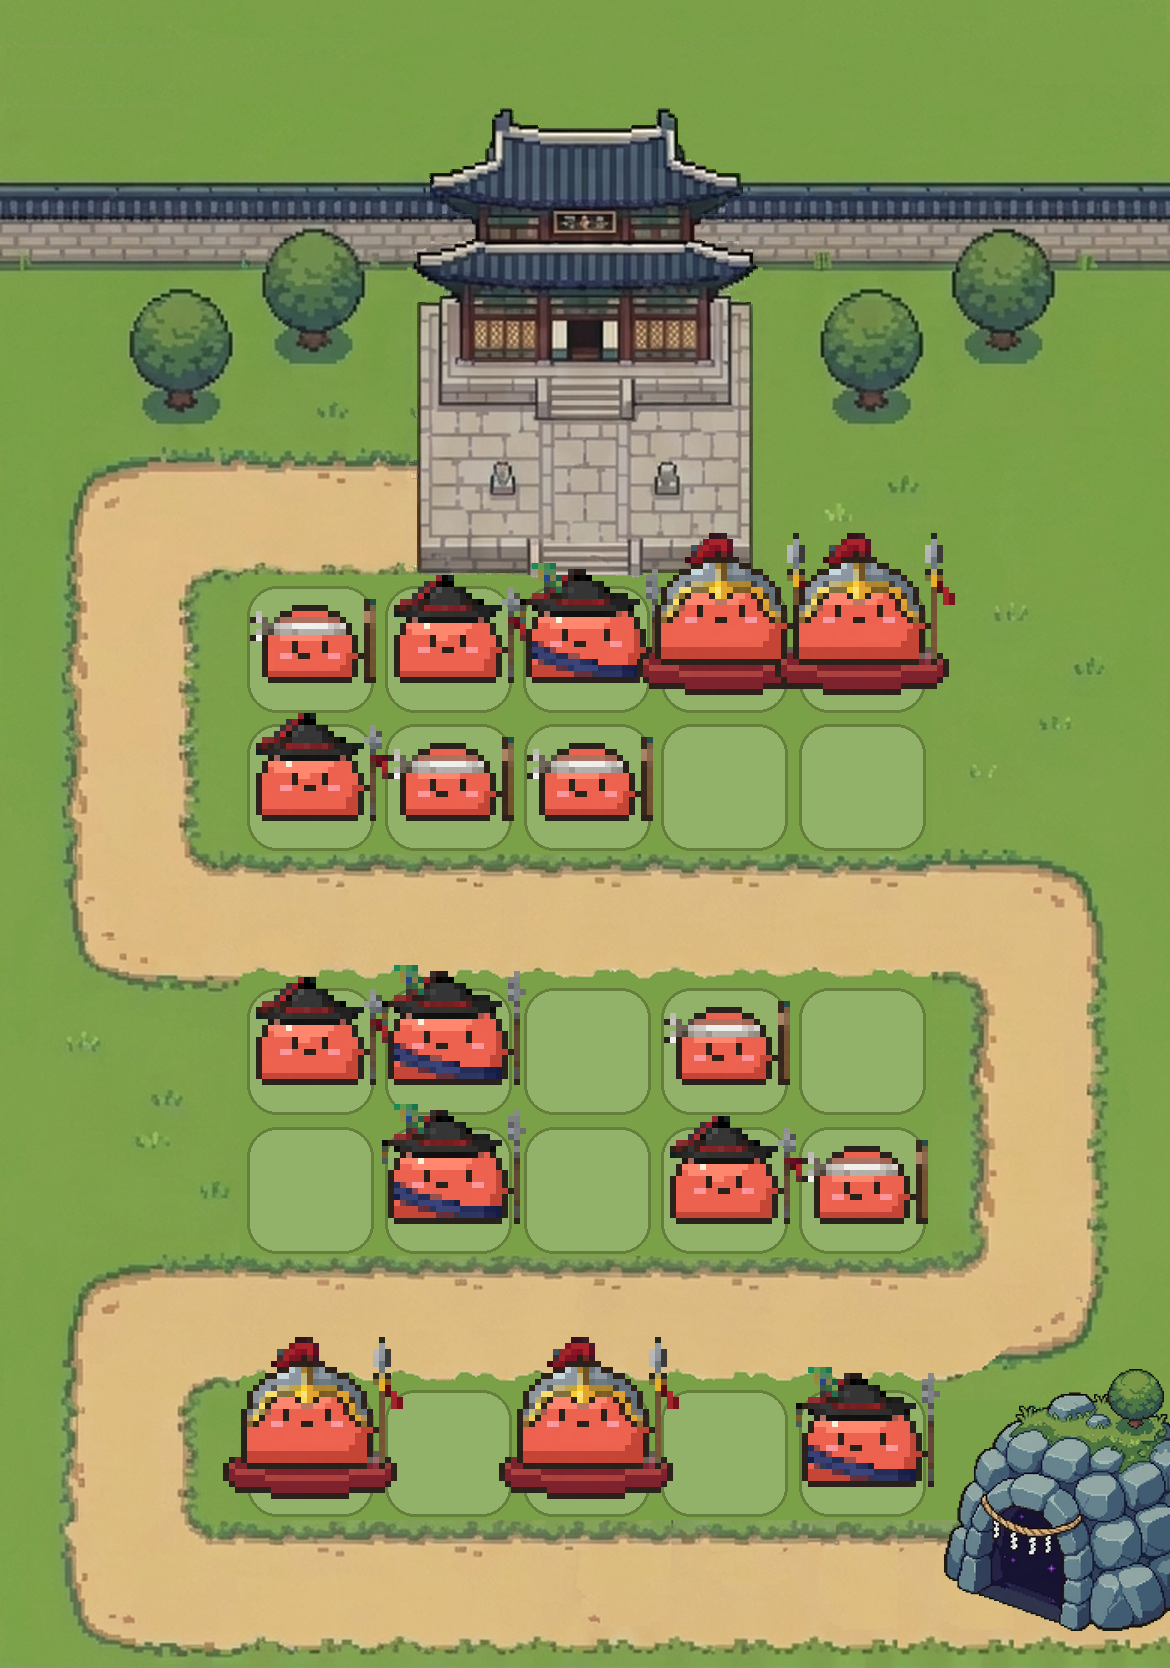
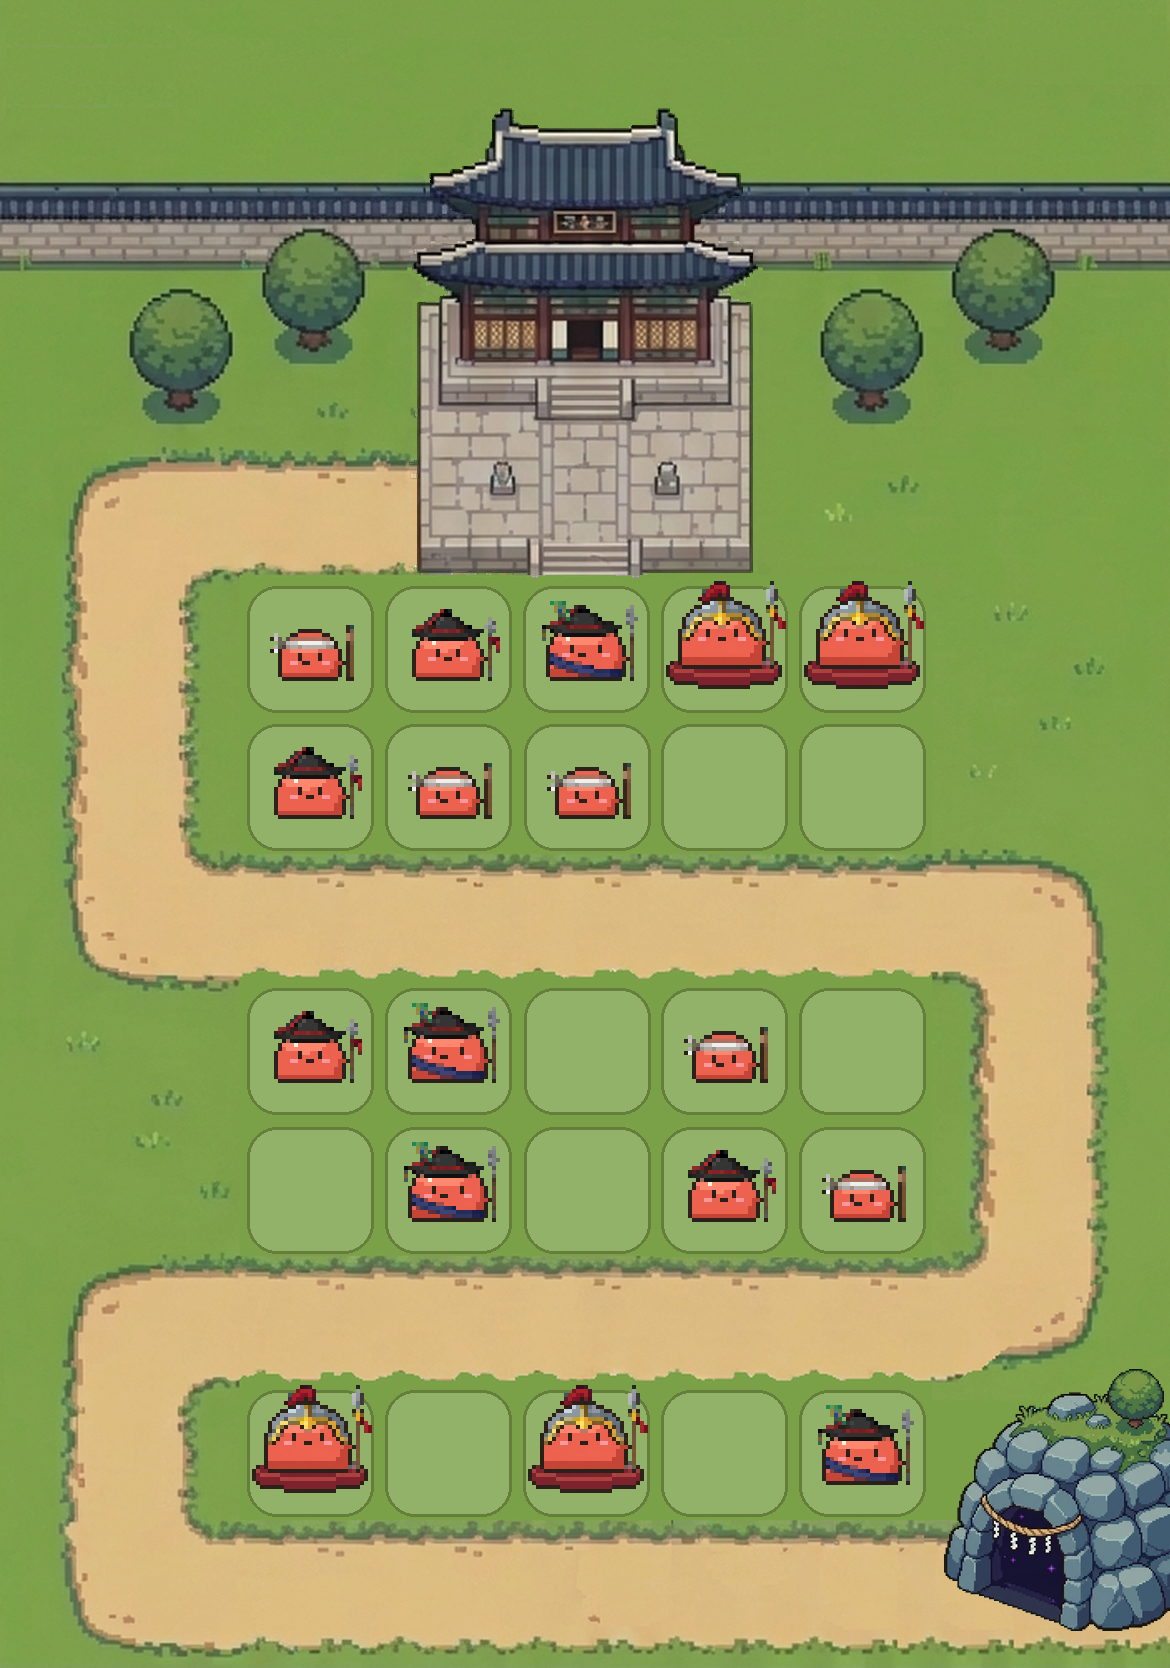
art: 도트 창병 미리보기 크기 줄임 (1도트 = @2x 4px)
Claude-Session: https://claude.ai/code/session_01516Ff1ezD39vnqGwiHhyKB

diff --git a/art/tools/slime/snap_pixel_slime.py b/art/tools/slime/snap_pixel_slime.py
@@ -3,7 +3,7 @@
 입력: art/source/gemini/slime-pixel/<병과>-ranks-pixel.png (하늘색 배경, 1도트 ≈ 9px)
 출력: art/source/gemini/slime-pixel/dots/<병과>-<등급>.png   1도트 = 1px 원본 (투명)
       art/preview/slime-pixel/<병과>-pixel-on-map.png, -pixel-ranks.png
-게임 크기: 1도트 = @2x 6px (보드 3, 궁 도트 크기와 비슷). 확대는 NEAREST만 쓴다(부드럽게 줄이지 않음).
+게임 크기: 1도트 = @2x 4px (보드 2). 확대는 NEAREST만 쓴다(부드럽게 줄이지 않음).
 실행: python3 art/tools/slime/snap_pixel_slime.py spear
 """
 import json
@@ -17,7 +17,7 @@ from scipy import ndimage
 ROOT = os.path.abspath(os.path.join(os.path.dirname(__file__), '..', '..', '..'))
 RANKS = ['gunjol', 'jeongbyeong', 'gungwan', 'jangsu']
 P, OX, OY = 9.0, 8.0, 0.0      # 도트 크기, 격자 시작점 (찾은 값)
-DOT2X = 6                      # 게임 @2x에서 1도트 픽셀 수 (보드 3 = 궁 도트와 비슷)
+DOT2X = 4                      # 게임 @2x에서 1도트 픽셀 수 (보드 2 — 장수 받침 30도트 = 보드 60, 칸 63 안)
 FOOT_DY = 14
 
 
